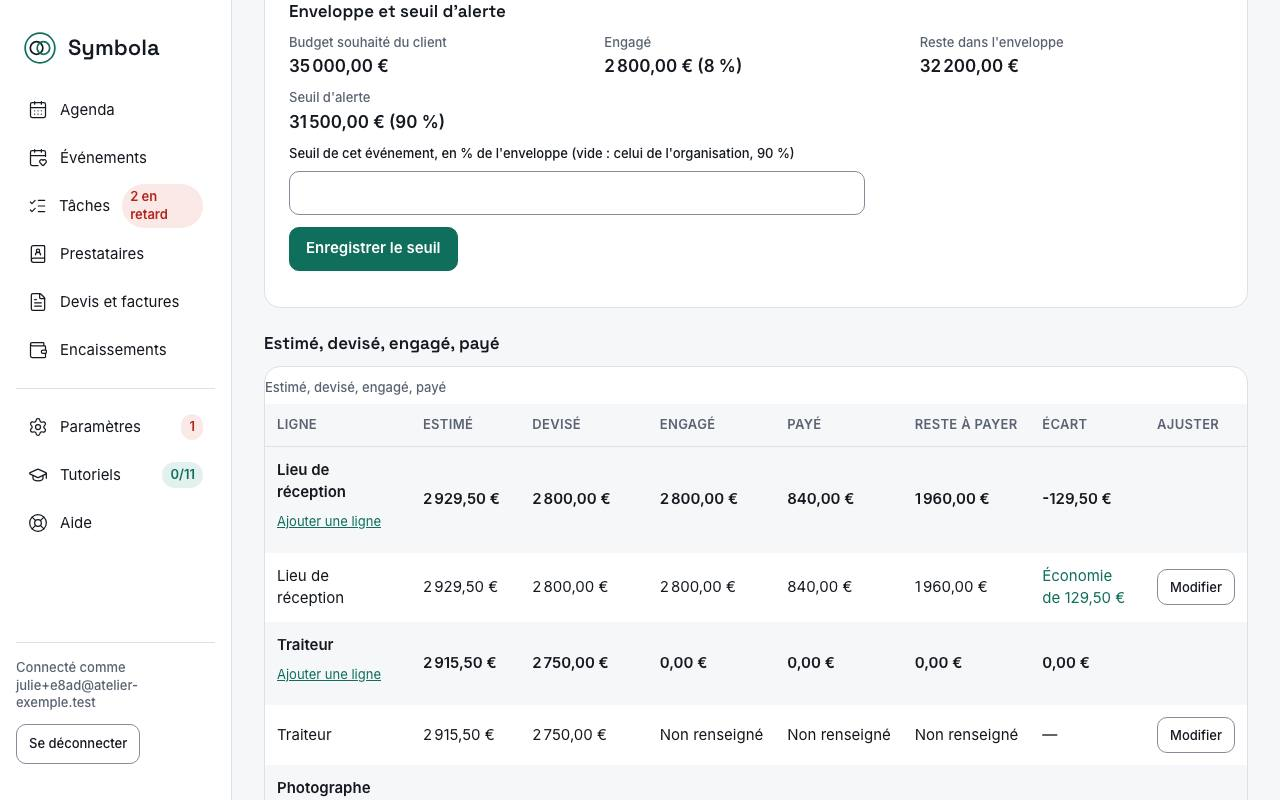
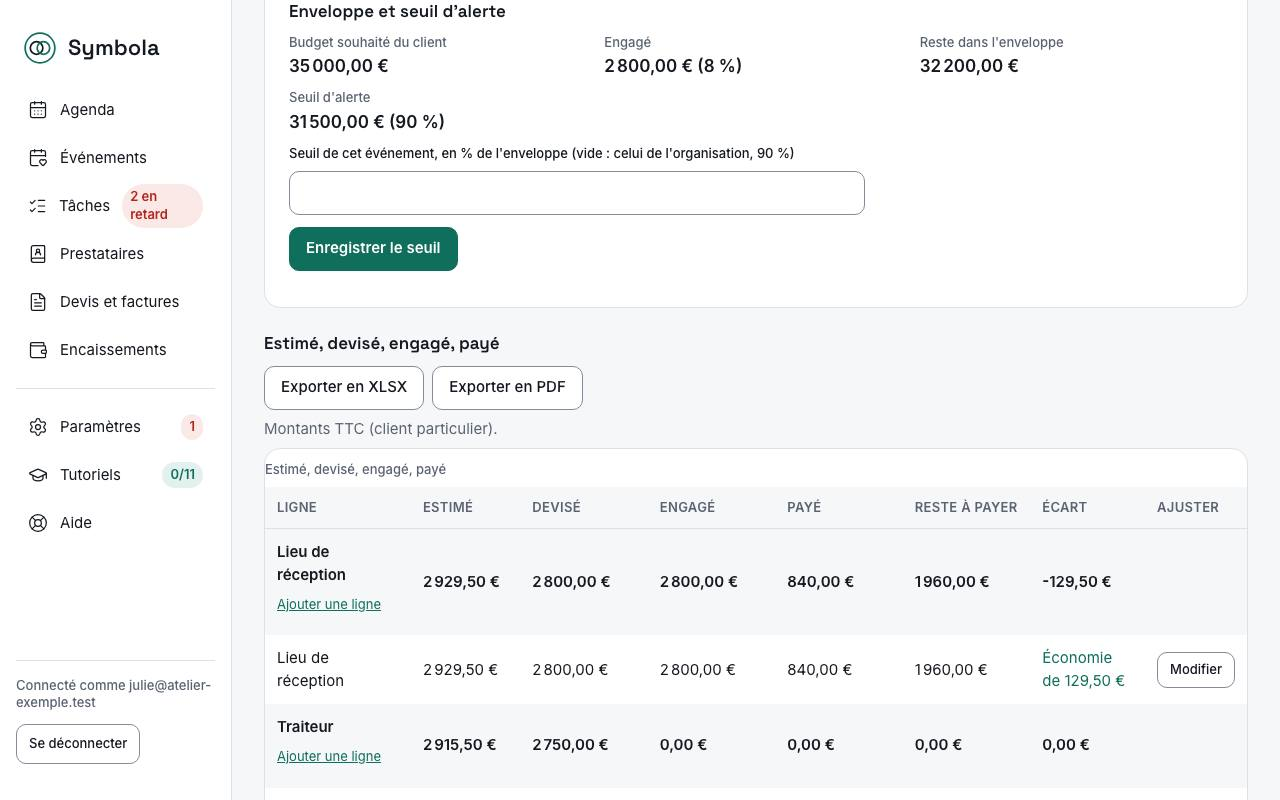
docs: lot 28c, avenant de l'ADR 0054, aide, rejeu SC-04, grille d'écart et bilan
- ADR 0054 : avenant du 28c (taux par ligne, type de client, HT par taux, export,
  annuaire, annulation).
- Aide du budget et du carnet (FR et EN) ; captures du centre d'aide.
- Rejeu SC-04 du 28c (docs/recette/SC-04.md).
- Grille d'écart : BUD-09, BUD-10, PRE-01 Conforme ; bilan du 28c dans la
  spécification du lot.

diff --git a/docs/adr/0054-budget-a-cinq-montants.md b/docs/adr/0054-budget-a-cinq-montants.md
@@ -106,3 +106,42 @@ Décisions de Julien du 12/11/2026 (Q33 en (a) ; D9 à D14 en (a), sauf D12 en (
 7. **Annulation** : 0106 rend au poste un prestataire choisi (le premier engagé) ; 0105 est
    refusée tant qu'une catégorie a plusieurs lignes, et perd les échéances et la nature des
    documents.
+
+## Avenant du 12/11/2026 — HT et TTC, export, annuaire (lot 28c, décisions D5, D6 et D8)
+
+Décisions de Julien du 11/11/2026 (D5, D6 et D8 en (a)).
+
+1. **Taux de TVA par ligne (BUD-09)** : `budget.budget_lines` gagne un taux en points de base
+   (0 à 10000, borné par la base), saisi comme au catalogue (« 20 », « 5,5 »). Vide, la ligne
+   prend le taux de départ des modèles (`budget-vat.json`, 20 %, ADR 0007) : aucune reprise de
+   données (migration 0107), et un changement du taux de départ ne vaut que pour les lignes
+   sans taux saisi. 0 % pour un prestataire en franchise.
+2. **Le mode suit le client (D5)** : le type d'acheteur du devis de l'événement, lu par la
+   porte d'entrée du module Devis ; précision apportée au code : le devis signé le plus récent,
+   à défaut le plus récent. Sans devis, ou sans module Devis : particulier. Particulier : TTC
+   seul ; professionnel : le HT sous chaque montant TTC (écran, portail du client, export).
+   Le contact unique (lot 36) en deviendra la source.
+3. **Calcul du HT (ADR 0059)** : montants saisis TTC ; HT d'une ligne = TTC × 10000 / (10000 +
+   taux), arrondi au centime le plus proche, la moitié vers le haut. Les totaux HT d'une
+   catégorie et du budget additionnent les TTC par taux avant de les convertir, une fois par
+   taux : la somme des HT des lignes peut différer d'un centime du total HT (3 × 1,00 € à 20 %
+   font 2,50 € HT, pas 2,49 €).
+4. **Export (BUD-10, D6)** : classeur XLSX écrit par l'app (`lib/xlsx-workbook.ts`, SpreadsheetML
+   dans l'archive ZIP existante, sans dépendance) : feuilles « Budget » (catégories, lignes, cinq
+   montants et écart ; taux, HT et TTC côte à côte pour un professionnel) et « Échéances » ;
+   montants au format monétaire, en-têtes à la couleur des documents de l'organisation (module
+   Devis ; sans lui, la couleur de départ). Une cellule de texte n'est jamais une formule. PDF
+   (@react-pdf, A4 paysage) : même contenu, logo et nom de l'organisation, filigrane « Document
+   fictif » pour un événement d'essai. Route `/budget/<id>/export?format=xlsx|pdf` : session,
+   rôle, organisation, module, identifiant et événement vérifiés côté serveur ; un événement
+   d'une autre organisation répond comme un objet inexistant. Journal : `budget.budget.exported`
+   (famille « exports »), avec le format et le nombre de lignes, aucun nom.
+5. **Annuaire (PRE-01, D8)** : la fiche du carnet gagne une évaluation (1 à 5, bornée par la
+   base) et des tarifs indicatifs (texte libre), migration 0108. L'évaluation s'affiche dans le
+   carnet (étoiles, lues « 4 sur 5 ») et se filtre (« au moins N », paramètre `note`). Les deux
+   s'importent : l'évaluation se lit en chiffre, sur 5 ou en étoiles ; une note illisible laisse
+   la fiche sans évaluation. Les synonymes « tarifs » et « prices » passent des prestations
+   (note interne) aux tarifs indicatifs. RGPD : déclarés au registre, recherchés et exportés avec
+   la fiche, effacés à l'oubli.
+6. **Annulation** : 0108 retire l'évaluation et les tarifs ; 0107 retire le taux (les montants
+   TTC restent).

diff --git a/docs/lots/lot-28-budget-cinq-montants.md b/docs/lots/lot-28-budget-cinq-montants.md
@@ -3,7 +3,9 @@
 **Statut** : spécification validée par Julien le 11/11/2026, décisions D1 à D8 en (a). 28a codé le
 12/11/2026 (bilan en fin de partie D), branche `lot-28-budget-cinq-montants`, PR #99. 28b détaillé
 le 12/11/2026, décisions D9 à D14 validées par Julien le 12/11 (« Oui, comme recommandé » : D12 en
-(b), les autres en (a)), branche `lot-28b-echeancier-export` (partie du 28a).
+(b), les autres en (a)), branche `lot-28b-echeancier-export` (partie du 28a). 28c codé le
+12/11/2026 (décisions D5, D6 et D8, bilan après celui du 28b), branche
+`lot-28c-tva-export-carnet` (partie du 28b).
 
 ## Contexte
 
@@ -286,6 +288,32 @@ F) puis **28c** (parties G, H, I).
   et des échéances), grille d'écart (BUD-01, BUD-03, BUD-04 Conforme).
 - **Reste au 28c** : HT et TTC, export XLSX et PDF, évaluation et tarifs du carnet.
 - **Déploiement** (gel) : migrations 0105 et 0106 à ajouter à la liste des gestes.
+
+### Bilan du lot 28c (12/11/2026)
+
+- **HT et TTC** (BUD-09, D5) : taux de TVA par ligne, saisi dans le formulaire de la ligne
+  (20 % de départ, `budget-vat.json`) ; le type de client vient du devis de l'événement (le
+  signé le plus récent, à défaut le plus récent ; particulier sans devis ni module Devis).
+  Particulier : TTC seul ; professionnel : HT sous chaque montant, à l'écran, au portail du
+  client et dans l'export ; totaux HT par taux (ADR 0059). Migration 0107.
+- **Export** (BUD-10, D6) : « Exporter en XLSX » et « Exporter en PDF » sur la page du budget.
+  Classeur écrit par l'app (`lib/xlsx-workbook.ts`, sans dépendance) : feuilles « Budget » et
+  « Échéances », format monétaire, en-têtes à la couleur des documents ; PDF A4 paysage avec
+  logo, nom et couleur ; sans module Devis, la couleur de départ. Route contrôlée côté serveur ;
+  export au journal (`budget.budget.exported`, format et nombre de lignes).
+- **Annuaire** (PRE-01, D8) : évaluation (1 à 5, étoiles) et tarifs indicatifs sur la fiche ;
+  l'évaluation s'affiche dans le carnet et se filtre (« au moins N ») ; les deux s'importent
+  (« 4/5 », « ★★★★ », « 4 ») ; registre RGPD, recherche, export et oubli. Les synonymes
+  « tarifs » et « prices » vont désormais aux tarifs indicatifs. Migration 0108.
+- **Tests** : unitaires (HT, classeur relu par le lecteur d'import, contenu et rendu du PDF,
+  lecture de l'évaluation) ; intégration (`budget-28c.integration.test.ts`,
+  `vendors/rating.integration.test.ts` : HT par taux au centime, type de client, export,
+  filtre, import CSV, RGPD, isolation) ; aller-retour 0107/0108 ; e2e
+  `bud-09-10-pre-01-tva-export-carnet` (ordinateur et 375 px, axe-core, export d'une autre
+  organisation refusé) ; rejeu SC-04 (`docs/recette/SC-04.md`).
+- **Documents** : avenant de l'ADR 0054, aide du budget et du carnet, registre RGPD, grille
+  d'écart (BUD-09, BUD-10, PRE-01 Conforme).
+- **Déploiement** (gel) : migrations 0107 et 0108 à ajouter à la liste des gestes.
 
 ---
 

diff --git a/docs/recette/SC-04.md b/docs/recette/SC-04.md
@@ -87,3 +87,32 @@ Résultat : **étapes 1, 2 et 5 passées, sans blocage**.
   prestataire (constaté au premier essai en 375 px, serveur actif pendant le chargement).
 
 Résultat : **étapes 1, 2, 5 et 6 passées, sans blocage** (3 et 4 : lot 27).
+
+---
+
+# Rejeu SC-04 — lot 28c (HT et TTC, export, carnet)
+
+- Date : 12/11/2026, en local, par Claude Code : app compilée, base neuve `symbola_lot24`, jeu
+  fictif chargé par `seed:recette` ; en 1280 px puis en 375 px, chaque fois sur une base remise à
+  neuf (saisie automatisée).
+- Départ : le budget du jeu après le 28b (Maison Haddad retenue, 24 lignes dans 9 catégories,
+  échéances). Léa et Maxime n'ont pas de devis professionnel : ce sont des particuliers.
+
+| Ce que fait Camille | Résultat (ordinateur et 375 px) |
+| --- | --- |
+| Ouvre le budget | « Montants TTC (client particulier). », aucun HT affiché (BUD-09) ; totaux : estimé 30 900 €, devisé 24 150 €, engagé 24 150 €, payé 8 190 €, reste 15 960 € |
+| Pose 10 % de TVA sur « Dîner, 120 couverts » (20 % proposés au départ) | Enregistré en 0,2 à 0,3 s ; les montants TTC ne changent pas |
+| « Exporter en XLSX » | `budget-2026-11-12.xlsx` : feuille « Budget » avec 9 catégories et 24 lignes, montants en euros ; total du fichier identique à l'écran au centime (30 900 / 24 150 / 24 150 / 8 190 / 15 960 €) ; feuille « Échéances » |
+| « Exporter en PDF » | `budget-2026-11-12.pdf`, 2 pages A4 paysage : nom de l'organisation, en-têtes de colonnes à la couleur de ses documents répétés sur chaque page, catégories, lignes, total, échéancier des prestataires |
+| Note Maison Haddad 5 sur 5, avec ses tarifs indicatifs, puis filtre le carnet « au moins 4 » | Seule Maison Haddad reste ; sa fiche montre « ★★★★★ 5 sur 5 » et « Menu à partir de 80 € par couvert ; vin d'honneur 12 € » (PRE-01) |
+
+## Mesures
+
+- **Totaux exacts au centime** : oui, à l'écran et dans le classeur exporté.
+- **Le mode dépend du type de client, sans réglage** : oui ; le cas d'un client professionnel
+  (HT sous chaque montant, HT par taux) est couvert par le parcours
+  `bud-09-10-pre-01-tva-export-carnet` et par `budget-28c.integration.test.ts`.
+- **Honoraires absents de la liste des dépenses du client** : lot 27 (portail).
+
+Résultat : **budget, export et carnet rejoués sans blocage** ; étapes 3 et 4 (partage et
+validation au portail) : lot 27.
